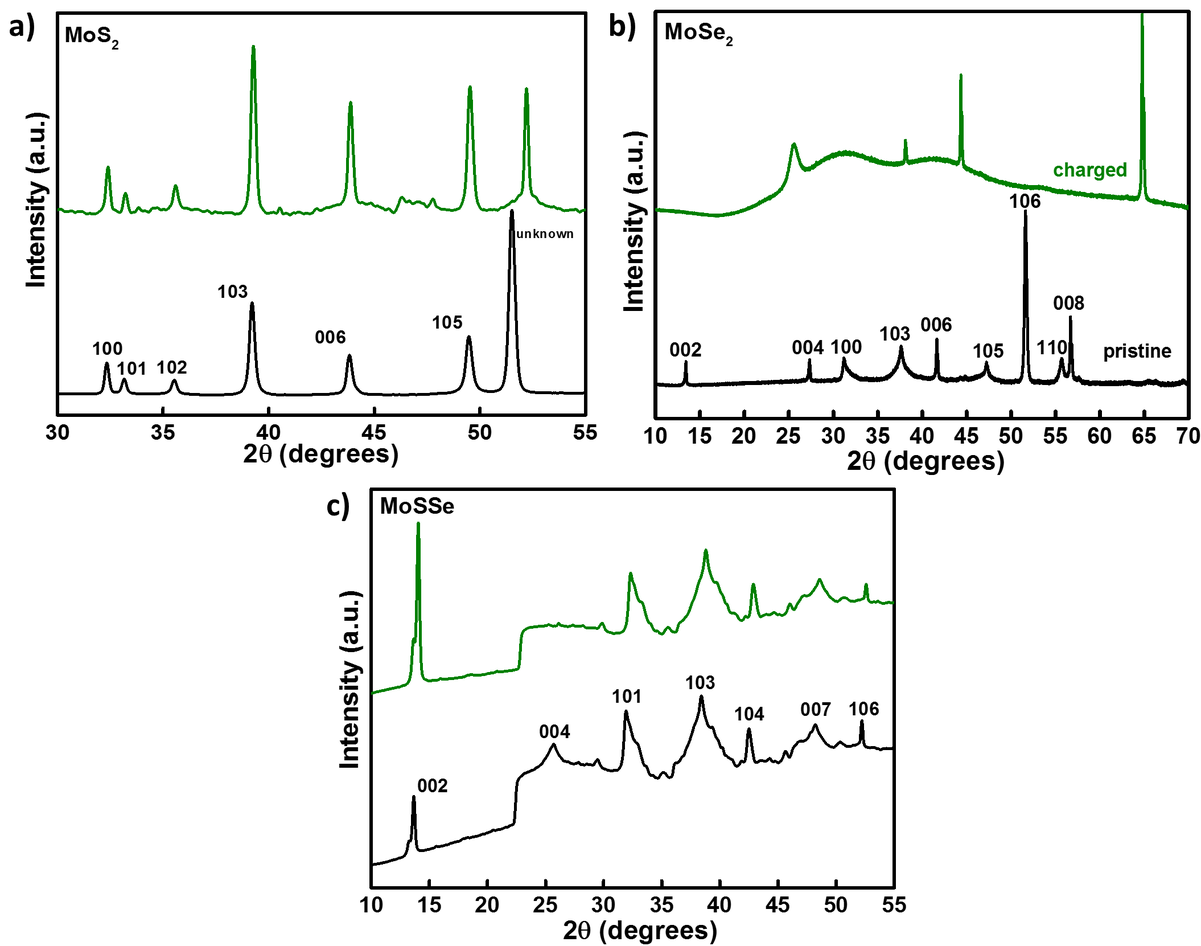
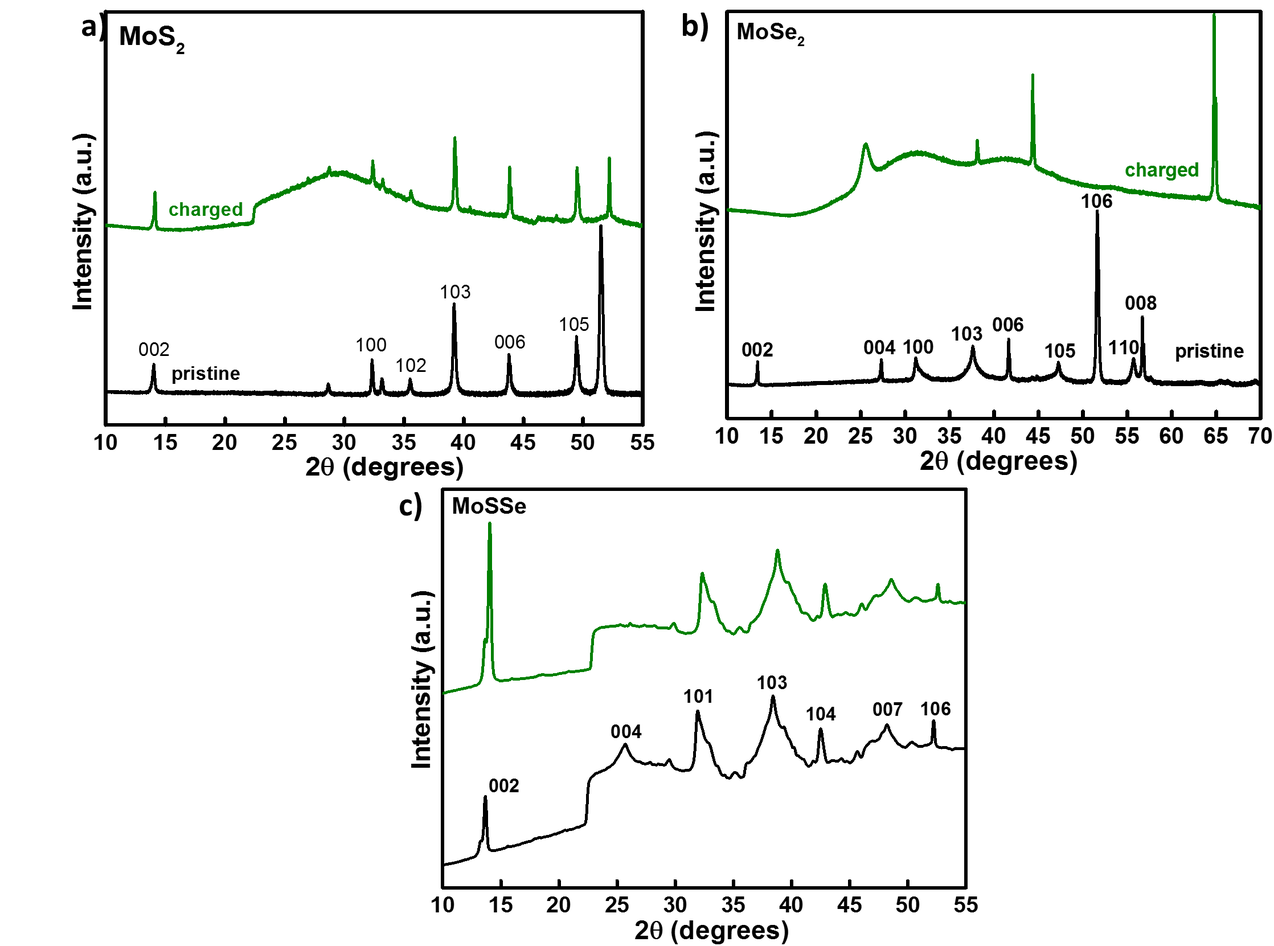
Updates from Overleaf

Changed region(s): [[0.0, 0.0, 0.9858, 1.0], [0.9858, 0.4299, 1.0, 0.4606]]

diff --git a/manuscript.tex b/manuscript.tex
@@ -32,6 +32,7 @@
 % Include full author names and degrees, when required by the journal.
 % Use the \authfn to add symbols for additional footnotes and present addresses, if any. Usually start with 1 for notes about author contributions; then continuing with 2 etc if any author has a different present address.
 \author[1]{Shalini Divya}
+\author[1]{James H. Johnston}
 \author[2\authfn{1}]{Thomas Nann}
 
 \contrib[\authfn{1}]{Corresponding author.}
@@ -56,7 +57,7 @@
 
 \begin{abstract}
 
-In this work, we developed rechargeable AIBs using molybdenum dichalcogenides- MoS$_2$, MoSe$_2$ and MoSSe with polyvinylidene fluoride (PVDF) binder as the cathode. The aluminium ion batteries exhibit clear discharge voltage plateaus in the ranges 1.6-1.4 V for MoS$_{2}$ and MoSe$_{2}$, and 0.6–0.5 V for MoSSe. While the MoSSe cathode exhibits a higher specific capacity over MoS$_2$ and MoSe$_2$ but the overall energy density is lower than MoSe$_2$ at a current density of 40 mA g$^-{^1}$, MoSe$_2$ proves to be a more stable cathode with a discharge specific capacity of 110 mAh g$^-{^1}$ with an average potential at $\approx 2.0 V$. Charge–discharge cycling at 100 mA g$^-{^1}$ demonstrates the stability of Al/MoSe$_2$ cell over 200 cycles with 90 \% coulombic efficiency. 
+Many successful battery electrodes are based on 2D-layered materials. We have studied aluminium-ion batteries using molybdenum dichalcogenides --- MoS$_2$, MoSe$_2$ and MoSSe as active cathode materials. The batteries exhibit clear discharge voltage plateaus in the ranges 1.6-1.4 V for MoS$_{2}$ and MoSe$_{2}$, and 0.6–0.5 V for MoSSe. While the MoSSe cathode exhibits a higher specific capacity over MoS$_2$ and MoSe$_2$ but the overall energy density is lower than MoSe$_2$ at a current density of 40 mA g$^-{^1}$, MoSe$_2$ proves to be a more stable cathode with a discharge specific capacity of 110 mAh g$^-{^1}$ with an average potential at $\approx 2.0 V$. Charge–discharge cycling at 100 mA g$^-{^1}$ demonstrates the stability of Al/MoSe$_2$ cell over 200 cycles with 90 \% coulombic efficiency. 
 
 % Please include a maximum of seven keywords
 %\keywords{aluminium-ion battery, molybdenum disulfide, molybdenum diselenide, ...}
@@ -64,17 +65,18 @@ In this work, we developed rechargeable AIBs using molybdenum dichalcogenides- M
 \end{abstract}
 
 \section{Introduction}
-The use of lithium-ion batteries (LIBs) has grown significantly in recent years. The high energy density is one of the chief advantages of lithium-ion battery technology. In addition, they do not require any maintenance to ensure their performance. However, lithium-ion cells and batteries are not as robust as some other rechargeable technologies. They require protection from being over charged and discharged too far. After a while, batteries may need replacing due to ageing and this can be an issue if they are embedded in the equipment. Many airlines limit the number of lithium ion batteries they take. Any lithium-ion battery carried separately must be protected against short circuits by protective covers while travelling in air. Lithium-ion’s limitations are obvious, which is why there is a growing interest in finding alternative technologies. Among various batteries, Al-ion batteries (AIBs) have high gravimetric capacity (2,980 Ah kg$^-^1$) of the Al anode when compared to Li$^+$/Li (3,862 Ah kg$^-^1$) and Na$^+$/Na (1,166 Ah kg$^-^1$) resulting from Al$^3^+$/Al redox couple. Aluminium-ion batteries (AIBs) are a promising alternative to meet the growing demands. They are low in cost, recyclable and an ionic liquid used as electrolyte renders non-flammability. Although aluminium (Al) has a higher standard oxidation potential than lithium (Li), Al$^3^+$ cations result in a higher theoretical energy density compared to monovalent lithium (Li$^+$). Vanadium oxides such as V$_2$O$_5$ and VO$_2$ exhibited promising results but the intercalating Al$^3{^+}$ ions fixed themselves between the V$_2$O${_5}$ layers that made their diffusion very slow resulting in fewer charge/discharge cycles. Chiku \textit{et al} \cite{chiku_amorphous_2015} introduced an amorphous V$_2$O${_5}$/carbon composite where presence of highly electro-conductive Ketjenblack weakened the interaction between intercalating Al$^3^+$ ions and amorphous V$_2$O$_5$ layers, significantly improving the battery performance. Using X-ray photoelectron spectroscopy (XPS) analysis, the team found that the valency of vanadium changed while charging/discharging the cell. Two-dimensional vanadium carbide (MXenes)\cite{vahidmohammadi_two-dimensional_2017} were used based on a similar principle where Al$^3^+$ ions intercalated into the MXene layers and vanadium, V$^4^+$ reduced to V$^3{^+}$ during discharge and reversibly oxidised to V$^4^+$ during charge. Metal oxides such as MoO$_3$\cite{lahan_al3+_2019}, chevrel phase Mo$_6$S$_8$ \cite{geng_reversible_2015}, Ni$_3$S$_2$ \cite{wang_novel_2016}, MoS$_2$\cite{li_rechargeable_2018}, TiS$_2$\cite{geng_titanium_2017} and carbon-based materials have been tested as cathodes for AIBs. Materials with high surface area such as three-dimensional hierarchical CuS microspheres\cite{wang_high-performance_2017}, zeolite-template carbon\cite{stadie_zeolite-templated_2017} as an ordered microporous cathode, have shown better battery performance by providing shorter diffusion lengths thus making it easier for ions to intercalate or get absorbed onto the surface of the active material. 
-Graphite has been a popular choice for cathodes in AIBs due to its layered structure. Various forms of graphite such as fluorinated graphite\cite{rani_fluorinated_2013}, Kish graphite flakes\cite{wang_kish_2017}, three-dimensional graphitic-foam\cite{lin_ultrafast_2015}, graphene mesh network\cite{chen_ultrafast_2017}, few-layer graphene aerogels\cite{qiao_defect-free_2019} and several other forms, have been tried as cathodes for AIBs, which showed discharge capacities ranging from 60-250 mAh g$^-{^1}$. The AlCl$_4^¯$ anions intercalate into the graphitic stacks and deintercalate during discharge. X-ray diffraction (XRD) and Raman spectroscopy studies have widely been used to establish the mechanism\cite{wang_advanced_2017}. Splitting of the graphite 002 peak 2 $\theta$ = 26.55, into two separate peaks indicated intercalation of AlCl$_4{^¯}$ anions resulting in highly strained graphene stacks.  During discharge, the pristine graphite peak reappears suggesting reversible intercalation /deintercalation of AlCl$_4^¯$ anions. Raman data revealed a doublet peak during charge, indicating vibration of carbon atoms in the interior graphite planes, which finally resulted in one single peak after the cell was fully charged indicating two stages of intercalation. While the cell discharged, pristine graphite spectra reappeared. XPS studies confirmed the reversible oxidation/reduction of carbon when AlCl$_4^¯$ anions intercalate/deintercalate respectively. While AlCl$_4^-$ ions act as the charge-carrying species for a few cathodes, MoS2 guy displayed intercalation of Al$^3{^+}$ ions when the cells discharged. Therefore, it can be said that a single mechanism for AIBs does not exist; it changes with every cathode material and its structure. 
+% You started to talk for 4 sentences about lithium. This is an aluminium paper!!!
+ The aluminium-ion battery (AIB) anode redox couple Al$^3^+$/Al has a high theoretical, gravimetric capacity (2,980 Ah kg$^-^1$) when compared with Li$^+$/Li (3,862 Ah kg$^-^1$) and Na$^+$/Na (1,166 Ah kg$^-^1$). Futhermore, AIBs are low in cost, recyclable and the common ionic liquid electrolyte not inflammable. Although aluminium (Al) has a higher standard oxidation potential than lithium (Li), Al$^3^+$ cations result in a higher theoretical energy density compared to monovalent lithium (Li$^+$). Vanadium oxides such as V$_2$O$_5$ and VO$_2$ exhibited promising results but the intercalating Al$^3{^+}$ ions fixed themselves between the V$_2$O${_5}$ layers that made their diffusion very slow resulting in fewer charge/discharge cycles. Chiku \textit{et al} \cite{chiku_amorphous_2015} introduced an amorphous V$_2$O${_5}$/carbon composite where presence of highly electro-conductive Ketjenblack weakened the interaction between intercalating Al$^3^+$ ions and amorphous V$_2$O$_5$ layers, significantly improving the battery performance. Using X-ray photoelectron spectroscopy (XPS) analysis, the team found that the valency of vanadium changed while charging/discharging the cell. Two-dimensional vanadium carbide (MXenes)\cite{vahidmohammadi_two-dimensional_2017} were used based on a similar principle where Al$^3^+$ ions intercalated into the MXene layers and vanadium, V$^4^+$ reduced to V$^3{^+}$ during discharge and reversibly oxidised to V$^4^+$ during charge. Metal oxides such as MoO$_3$\cite{lahan_al3+_2019}, chevrel phase Mo$_6$S$_8$ \cite{geng_reversible_2015}, Ni$_3$S$_2$ \cite{wang_novel_2016}, MoS$_2$\cite{li_rechargeable_2018}, TiS$_2$\cite{geng_titanium_2017} and carbon-based materials have been tested as cathodes for AIBs. Materials with high surface area such as three-dimensional hierarchical CuS microspheres\cite{wang_high-performance_2017}, zeolite-template carbon\cite{stadie_zeolite-templated_2017} as an ordered microporous cathode, have shown better battery performance by providing shorter diffusion lengths thus making it easier for ions to intercalate or get absorbed onto the surface of the active material. 
+Graphite has been a popular choice for cathodes in AIBs due to its layered structure. Various forms of graphite such as fluorinated graphite\cite{rani_fluorinated_2013}, Kish graphite flakes\cite{wang_kish_2017}, three-dimensional graphitic-foam\cite{lin_ultrafast_2015}, graphene mesh network\cite{chen_ultrafast_2017}, few-layer graphene aerogels\cite{qiao_defect-free_2019} and several other forms, have been tried as cathodes for AIBs, which showed discharge capacities ranging from 60-250 mAh g$^-{^1}$. The AlCl$_4^¯$ anions intercalate into the graphitic stacks and deintercalate during discharge. X-ray diffraction (XRD) and Raman spectroscopy studies have widely been used to establish the mechanism\cite{wang_advanced_2017}. Splitting of the graphite 002 peak 2 $\theta$ = 26.55, into two separate peaks indicated intercalation of AlCl$_4{^¯}$ anions resulting in highly strained graphene stacks.  During discharge, the pristine graphite peak reappears suggesting reversible intercalation /deintercalation of AlCl$_4^¯$ anions. Raman data revealed a doublet peak during charge, indicating vibration of carbon atoms in the interior graphite planes, which finally resulted in one single peak after the cell was fully charged indicating two stages of intercalation. While the cell discharged, pristine graphite spectra reappeared. XPS studies confirmed the reversible oxidation/reduction of carbon when AlCl$_4{^¯}$ anions intercalate/deintercalate respectively. While AlCl$_4{^-}$ ions act as the charge-carrying species for a few cathodes, MoS2 guy displayed intercalation of Al$^3{^+}$ ions when the cells discharged. Therefore, it can be said that a single mechanism for AIBs does not exist; it changes with every cathode material and its structure. 
 
 
 \section{Results and Discussion}
 
-Scheme 1 displays the crystal structure of MoX$_2$ where X = S, Se. The molecule has two vacant sites --- M1 and M2. M1 denotes the spaces in between the X-Mo-X bonds whereas M2, a larger site, is denoted by separation of two layers of MoX$_2$ with an inter-layer distance of 6.3\AA. The layers are held at this distance via van-der-Waals (vdW) forces. The M2 site presents an open network and various interstitial sites, which can easily accommodate the AlCl$_4^{-}$ anion, which are 5.28\AA\ in size as reported by Takahashi {\it et al}. An argument can be made about the kind of ion that participates in the intercalation process during charge. Wang {\it et al.} reported participation of Al$^{3+}$ cations, which not only had to overcome their strong electrostatic effect to get in between the layers, but their participation also reduced the reversibility of the redox process by forming complexes with the sulphide ions that remained in the vacant site during discharge. According to our preliminary tests, we found that the participation of Al$^{3+}$ would rather \lq contract\rq\ the MoX$_2$ layers. Density Functional Theory (DFT) studies carried out by Pathak {\it et al.}, showed that AlCl$_4^-$ anions intercalated within the graphite system with its energetically stable tetrahedral form, which is distorted due to the vdW inter-layer attraction forces between the host graphite layers. Here, we propose the intercalation of AlCl$_4^-$ anions into the M2 sites of MoX$_2$ during charging process. The electrochemical results, cyclic voltammetric scans, Raman spectroscopy and X-ray photoelectron spectroscopy results discussed later strongly support the reversible nature of the intercalation process.
+Scheme 1 displays the crystal structure of MoX$_2$ where X = S or Se. The molecule has two vacant sites for intercalation - M1 and M2. M1 denotes the spaces in between the X-Mo-X bonds whereas M2, a larger site, is denoted by separation of two layers of MoX$_2$ with an inter-layer distance of 6.3\AA. The layers are held at this distance via van-der-Waals (vdW) forces. The M2 site presents an open network and various interstitial sites, which can easily accommodate the AlCl$_4^{-}$ anion, which are 5.28\AA\ in size as reported by Takahashi {\it et al}. An argument can be made about the kind of ion that participates in the intercalation process. Wang {\it et al.}\cite{li_rechargeable_2018} reported intercalation of Al$^{3+}$ cation during discharge. The triply charged Al$^3{^+}$ cation has to overcome the strong electrostatic force from the S$^2{^-}$ anion network to get in between MoS$_2$ layers; also, its participation is limited due to its tendency to form complexes when it intercalates. However, our preliminary tests showed  that participation of Al$^{3+}$ would rather \lq contract\rq\ the MoX$_2$ layers making AlCl$_4{^-}$ a probable choice.  Density Functional Theory (DFT) studies carried out by Pathak {\it et al.}, showed that AlCl$_4^-$ anions intercalated within the graphite system after distortion from its tetrahedral form due to vdW interlayer attraction forces between the host graphite layers. Here, we propose the intercalation of AlCl$_4^-$ anions into the M2 sites of MoX$_2$ during charging process. The electrochemical results, cyclic voltammetric scans, Raman spectroscopy and X-ray photoelectron spectroscopy results discussed later strongly support the reversible nature of the intercalation process.
 
 \begin{figure}[t]
 \centering
-\includegraphics[width=\textwidth]{figures/scheme1}
+\includegraphics[width=\textwidth]{figures/S1}
 \caption{Schematic representation of a) an MoX$_2$ crystal structure with possible intercalation sites at M1 and M2 b) intercalation at M1 site and c) intercalation at M2 site.}
 \end{figure}
 
@@ -88,7 +90,7 @@ A modified two-electrode polyether ether ketone (PEEK) cell was used to make ele
 % Figure 1 here
 
 
-Figure 1 shows the charge/discharge curves (CDC) for MoS$_2$, MoSe$_2$and MoSSe. The average voltage was observed at 1.8 V for MoS$_2$, 1.7 V for MoSe$_2$ and 0.6 V for MoSSe. For MoS$_2$, capacity after the first discharge was 43 mAh g$^{-1}$, which reduced to 40 mAh g$^{-1}$ and 31 mAh g$^{-1}$ in its second and third cycle respectively. We compared the CDC of the first cycle with their first cyclic voltammetry (CV) scan (Fig 1e) and found a good resemblance between the discharging plateaus (1.9 V and 0.7 V) and reduction peak positions, and in between the charging plateau (2.1 V) and oxidation peak positions. The two-step redox processes have good reversibility, seen in Significant Figure (SF) 1. However, the cell recorded an abnormally high charging capacity in its first cycle. Since intercalation of AlCl$_4^-$ takes places during charging, the irreversible capacity can be attributed to the dissociation of Al$_2$Cl$_7^-$ ions at the electrode surface, or formation of an SEI layer may also render a few side reactions that take place on the electrode-electrolyte interface at such high potentials. CDC for MoSe$_2$ revealed interesting results. With discharge plateaus at 1.9 V and 1.7 V, the first CV scan observed a reduction peak at 1.0 V and 1.65 V. The reduction peak at 1.0 V disappeared after the first scan. This peak can be attributed to an irreversible phase transition that takes place in MoSe$_2$ in its first cycle\cite{fan_hybrid_2017}. During this transition, a semi-conducting 2H phase converts to a more metallic 1T phase.  This transition works in favour of the cathode as it increased the interlayer spacing of MoSe$_2$ (by reducing the vdW forces) and allowing more AlCl$_4^-$ ions to intercalate, thus leading to a higher capacity than MoS$_2$. From the CDC and CV scans, it is apparent that the redox processes are reversible in nature as the discharging plateaus continue to appear at 1.8 V and 2.1 V and charging plateau appears at 2.0 V (Fig S5) after 200 cycle at a current rate of 100 mAg$^{-1}$. A similar phenomenon of high charging capacity during the first cycle was observed and can be similarly attributed to above-mentioned reasons. MoSSe cathode, observed three distinct plateaus during charge at 1.7 V, 2.0 V and 2.3 V in its first cycle with a very low discharge plateau at 0.5 V. The first CV scan revealed a distinct reduction potential at 0.9 V, which disappeared after 1st cycle implying a similar irreversible phase transition. We noticed only one reduction peak at 1.7 V in the consecutive scans and its intensity increased with every cycle. This did not seem to be a part of any redox process as no plateau was observed at that potential in its CDC. An increase in charging capacity during the first three cycles might have been due to... The rate capability test for three electrodes was carried out at various current rates of 25, 40 and 100 mA/g. Lower capacities at higher current rates can be attributed to the decrease in the number of ions transferred in between the electrode and the electrolyte, which decreases the battery capacity. An increase in resistance at higher current rates can also be a reason why the capacity fades.
+Figure 2 shows the charge/discharge curves (CDC) for MoS$_2$, MoSe$_2$and MoSSe. The discharge voltage was observed at 1.8 V and 0.6 V  for MoS$_2$, 1.9 V, 1.7 V  and 1.5 V for MoSe$_2$ and 0.5 V for MoSSe. For MoS$_2$, capacity recorded after first discharge was 43 mAh g$^{-1}$, which reduced to 40 mAh g$^{-1}$ and 31 mAh g$^{-1}$ in its second and third cycle respectively. We compared the cell's first CDC with its first cyclic voltammetry (CV) scan (Fig 1e-1g) and found a good resemblance between the discharging plateaus and reduction peak positions, and in between the charging plateau and oxidation peak positions. The two-step redox processes have good reversibility. Electrochemical performance of Al/MoSe$_2$ cell revealed some interesting results. With discharge plateaus at 1.9 V and 1.7 V, the first CV scan observed a reduction peak at 1.65 V and an irreversible peak at 1.0 V. The peak at 1.0 V disappeared after the first scan. This peak can be attributed to an irreversible phase transition that usually takes place in molybdenum dichalcogenides, in our case, MoSe$_2$, in its first cycle\cite{fan_hybrid_2017}. During this transition, a semi-conducting 2H phase converts to a more metallic 1T phase.  This transition works in favour of the cathode as it somehow increased the interlayer spacing of MoSe$_2$ (by reducing the vdW forces) and allowing more AlCl$_4^-$ ions to intercalate, thus leading to a higher capacity than MoS$_2$. From the CDC and CV scans, it is apparent that the redox processes are reversible even after 200 cycles (Fig SF1) at a higher current rate of 100 mAg$^{-1}$. Al/MoSSe cell observed three distinct plateaus during charge at 1.7 V, 2.0 V and 2.3 V in its first cycle with a low discharge plateau at 0.5 V. The presence of various charging potentials correspond to the oxidation processes that occur due to presence of both S and Se atoms. The first CV scan revealed an irreversible  reduction potential at 0.9 V (resembling MoSe$_2$), which disappeared after 1st cycle implying a similar irreversible phase transition. Only one reduction peak at 1.7 V was noted in the consecutive scans with decreased intensity after every cycle. However, no plateau was observed in the CDC for MoSSe at that potential. Performance of the three electrodes was observed at different current rates (25, 40 and 100 mA g$^-^1$). MoSe$_2$, recorded the most stable capacities at all potentials compared to MoS$_2$ (recording the lowest capacity of 11 at 100 mA/g) and MoSSe (recording a significant drop ion capacity after a few cycles at all current rates). 
 \begin{figure}[h!]
 \centering
 \includegraphics[width=\textwidth]{figures/fig2}
@@ -96,8 +98,7 @@ Figure 1 shows the charge/discharge curves (CDC) for MoS$_2$, MoSe$_2$and MoSSe.
 \end{figure}
 % Figure 2 here
 
-Both MoS$_2$ and MoSe$_2$ have similar interlayer distance (6.5 \AA) but MoSe$_2$ recorded a higher capacity and a more stable cycle life than MoS$_2$. This behaviour can be attributed to the different charge storage mechanisms the two materials follow. CV curves for MoSe$_2$ (Fig 2b) and MoSSe (Fig 2c) have a higher area than MoS$_2$ (Fig 2a) and a more rectangular shape suggesting an additional electrocapacitive mechanism. Charge storage in MoS$_2$ is primarily based on reversible intercalation of AlCl$_4^-$ ions during charge at 1.9 V (Fig S1). MoSe$_2$ showed an intercalation process and an electric double-layer charge storage at the electrode-electrolyte interface, resulting in a higher capacity and a high area under the CV curve. In addition, the phase transition for MoSe$_2$ and MoSSe (2H$\rightarrow$1T) is prominent in their first cycle at 0.9 V. No such transitions were observed for MoS$_2$. CV scan of MoSSe, which lacked any reversible redox peaks, revealed the capacity is mainly focused on non-Faradaic behaviour.
-
+Both MoS$_2$ and MoSe$_2$ have similar interlayer distance (6.5 \AA) but MoSe$_2$ recorded a higher capacity and a more stable cycle life than MoS$_2$. To account for this behaviour, we observed the CV scans of all electrodes. Different charge storage mechanisms can lead to different CV curves. Firstly, we noted that MoSe$_2$ (Fig 3b) and MoSSe (Fig 3c) had a higher CV area than MoS$_2$ (Fig 3a). In addition, the phase transition for MoSe$_2$ and MoSSe (2H$\rightarrow$1T) is prominent in their first scan at 0.9 V - 1.0 V. No such transitions were observed for MoS$_2$. Charge storage in MoS$_2$ seems to be primarily based on redox processes (reversible intercalation of AlCl$_4^-$ ions) : reversible oxidation and reduction peaks observed at 1.8 and 2.1 V, and 2.0 V respectively. A rectangular CV suggests towards an electrocapacitive mechanism. MoSe$_2$ indicated towards both a reversibe redox process (intercalation/deintercalation) and an electric double-layer charge storage because of its rectangular looking CV curve from 0.1 v to 1.5 V. The surface-induced charge storage might have resulted in an additional capacity.  CV scan of MoSSe, which lacked evidence for any reversible redox process due to absence of clear oxidation/reduction peaks, derives its capacitance mainly from a surface phenomena. CV curve from Mo foil (Fig 3a inlet)proved that capacitance in all the cells came solely from the active material and not the current collector.
 \begin{figure}[h!]
 \centering
 \includegraphics[width=\textwidth]{figures/fig3}
@@ -105,7 +106,7 @@ Both MoS$_2$ and MoSe$_2$ have similar interlayer distance (6.5 \AA) but MoSe$_2
 \end{figure}
 %Figure 3 here....
 
-Figure 3 displays the X-ray diffraction measurements of MoSe$_2$ and MoSSe electrodes cycled at current rate of 40 mA g$^{-1}$. XRD spectra for MoS$_2$ (Fig S6) compares the pristine (verified by JCPDS No. 17-0744) and charged electrode. The 002 plane (along the c-axis of MoS$_2$) shifted from 14.21\degree\  to 14.02\degree. MoSe$_2$ displayed significantly broadened peaks after charge. The diffraction peak at 2$\theta$ values of 13.4\degree\ (002) disappeared after charging, whereas the peaks at  27.28\degree\ (004), 41.64\degree\ (006) and 51.59\degree\ (106) shifted to 25.58\degree\ , 38.08\degree\  and 44.38\degree\ respectively. The 004 and 006 planes are along the c-axis of the molecule and a decrease in their theta values indicates an increase in the interlayer spacings. This confirms the intercalation of planar AlCl$_4^-$ ions. A new diffraction peak was observed at 44.38\degree, which can be attributed to a new intercalation complex formed after intercalation of AlCl$_4^-$. MoSSe, however, does not have a well-defined crystal structure, which is evident from its diffraction pattern (Fig 3b). The defects might have formed during sulphur substitution in the Mo-Se bond making the Mo-Se bond weaker, which is why the cathode starts to degrade after a few cycles. Interestingly, the 004 plane at 26\degree\ disappears after discharge.
+Figure 4 displays the X-ray diffraction measurements of MoS$_2$, MoSe$_2$ and MoSSe electrodes. XRD spectra for MoS$_2$ (Fig 4a) compares the pristine (verified by JCPDS No. 17-0744) and charged electrode. It was seen that the 002 plane shifted from 14.21\degree\  to 14.02\degree suggesting a very small increase in the inter-layer distance of the layered molecule. The amorphous nature of the charged electrode was expected as the cell was cycled 20 times which might have changed the lattice structure a little. Most of the peaks retained their positions suggesting no significant loss in its crystal lattice. MoSe$_2$, on teh other hand, displayed significantly shifted peaks after charge. The diffraction peak at 2$\theta$ values of 13.4\degree\ (002) disappeared after charging, whereas the peaks at  27.28\degree\ (004), 41.64\degree\ (006) and 51.59\degree\ (106) shifted to 25.58\degree\ , 38.08\degree\  and 44.38\degree\ respectively. A decrease in theta values of 004 and 006 planes (along the c-axis of the molecule) indicate an increase in the inter-layer spacing of the molecule. These observations strongly suggest intercalation of distorted AlCl$_4^-$ ions during charge. Phase transformation that converts 2H to 1T contributes to the change in lattice structure of MoSe$_2$.The presence of amorphous peaks (at 33\degree\ and 42\degree\ ) suggest the same. MoSSe, however, does not have a well-defined crystal structure to begin with, as is evident from the XRD spectra of the pristine electrode (Fig 3c, in black). These defects might have formed during sulphur substitution in the Mo-Se bond making the Mo-Se bond weaker. Not only does this substitution impact the crystal structure of the molecule, but also results in degradation of the cathode when bigger AlCl$_4^-$ ions start to interact with them.The shift of 002 plane and disappearance of the 004 plane is a result of intercalation of AlCl$_4^-$ ions in the first few cycles and phase transformation.Overall, the molecule retains its lattice after 20 cycles, confirming the surface-based interaction of the anions which does not alter the crystal structure unlike MoSe$_2$. 
 
 \begin{figure}[h!]
 \centering
@@ -114,7 +115,7 @@ Figure 3 displays the X-ray diffraction measurements of MoSe$_2$ and MoSSe elect
 \end{figure}
 % Figure 4 here.
 
-To further establish the phase transition effect in MoSe$_2$- X-ray photoelectron spectroscopy (XPS) was used, which is a useful tool in distinguishing different polymorphs (2H and 1T) and oxidation states of transition metal dichalcogenides. Detailed narrow spectrum scan (Figure 4) displays the binding energy of Mo (3d5/2 and 3d3/2), S (2p3/2 and 2p1/2), Se (3d5/2 and 3d3/2) and Al 2p peaks for charged MoSe$_2$ and MoSSe electrodes. The binding energies for Mo 3d in pristine in MoSe$_2$ and MoSSe were observed at 229.4 eV and 232.6 eV (Fig S7a) corresponding to Mo$^{4+}$ 3d5/2 and Mo$^{4+}$ 3d3/2 from the 2H polymorph. Any shift in binding energy or peak splitting in an XPS spectrum can be used to detect phase change or a change in oxidation states of an element. Binding energies of sulphur at 163.5 eV and 162.6 eV corresponding to 2p1/2 and 2p3/2 respectively, did not record any peak shift (Fig S8a and b). For pristine MoSe$_2$ electrodes, the binding energy of Mo 3d observed two peaks at 229.1 eV and 232.2 eV corresponding to 3d5/2 and 3d3/2 and Se 3d included a doublet at 55.4 eV and 54.6 eV corresponding to Se 3d3/2 and 3d5/2 respectively (Fig S9a and b). The peak for Mo 3d3/2 split into two peaks at 233.1 eV and 232.6 eV and Mo 3d 5/2 split into 229.4 eV and 229.2 eV (Fig 4a) after the electrodes were charged. Peak for Se 3d3/2 at 55.4 eV split into 56.0 eV and 55.7 eV (Fig S9b). The peak splitting implies presence of higher oxidation states (Mo$^{4+}$ $\rightarrow$ Mo6+) states and transformation of MoSe$_2$ in 2H phase to a more conducting 1T phase. In the pristine electrode of MoSSe, spectra for Mo 3d (Fig S10) and Se 3d deconvoluted into multiple peaks (Mo$^{4+}$ 3d3/2 into 232.2 eV and 231.7 eV and Mo$^{4+}$ 3d5/2 into 229.1 eV and 228.6 eV) indicating presence of both polymorphs, 2H and 1T, with various oxidation states of Mo (+4 and +6) and Se (+2 and +4). For the MoSSe electrode, peak area increased for Mo 3d peak at 231.7 eV and 228.6 eV corresponding to 3d5/2 and 3d3/2 respectively (Fig . Increase in the 1T polymorph after the first cycle increases the peak areas. In addition, the doublet for Se 3d was replaced by one broad peak, which can be deconvoluted into four peaks at 55.9 eV, 55.2 eV, 54.6 eV and 54.0 eV further confirming the presence of a different polymorph. A new peak at ~236 eV in Mo 3d spectra for MoS$_2$, MoSe$_2$ and MoSSe electrodes (Fig S7b, Fig 4a and 4b) corresponds to Mo6+ species from MoO3 after exposure of the electrode in air. Fig S10 suggests presence of MoO3 in the pristine MoSSe electrode. XPS probing for Al 2p showed presence of Al in all charged electrodes of MoS$_2$ (Fig S12), MoSe$_2$ (Fig 4c) and MoSSe (Fig 4d). The MoSe$_2$ electrode (Fig 4c) displayed binding energies of Al 2p at 77 eV and 76eV corresponding to chlorides (Al$_x$Cl$_y$) and Al2O3 respectively. The oxide formation can be attributed to the passivation of the anode. As AlCl$_4^-$ ions intercalate into MoSe$_2$ layers, a new peak at 69 eV was detected indicating formation of a new complex. MoSSe electrode displayed broad peaks at 74.5 eV and 76 eV (Fig 4d) indicating large amount of Al2O3 and chloroaluminate ions respectively. High atomic ratio of AlxCly implies electrolyte residue. Thus, due to increase in 1T phase in both MoS$_2$ and MoSe$_2$, it becomes easier for the AlCl$_4^-$ ions to intercalate in between its layers. 
+To confirm the intercalation of AlCl$_4^-$ in MoSe$_2$, X-ray photoelectron spectroscopy (XPS) was used, which is a useful tool in distinguishing various oxidation states and helps in identifying different polymorphs (2H and 1T) especially in transition metal dichalcogenides . Detailed narrow spectrum scan (Figure 4) displays the binding energy of Mo (3d$_5_/_2$ and 3d$_3_/_2$) and Al 2p peaks for charged MoSe$_2$ and MoSSe electrodes. For pristine MoSe$_2$ electrodes, the binding energy of Mo 3d observed two peaks at 229.1 eV and 232.2 eV corresponding to 3d$_5_/_2$ and 3d$_3_/_2$ and Se 3d included a doublet at 55.4 eV and 54.6 eV corresponding to Se 3d$_3_/_2$ and 3d$_5_/_2$ respectively (Fig). Since peak splitting in an XPS spectrum indicates a phase change or a change in oxidation state, the spectra for the charged electrodes looked significantly different. The peak for Mo 3d split into three doublets indicating Mo$^4^+$ (from pristine MoSe$_2$), Mo$^5^+$ (formed after cell was charged) and Mo$^6^+$ (from formation of MoO$_3$). The pristine electrode of MoSSe (SF) already contained Mo in more than one oxidation states or suggested presence of both polymorphs (2H and 1T) . After charge, the peak areas increased for Mo 3d peak at 231.7 eV and 228.6 eV corresponding to 3d$_5_/_2$ and 3d$_3_/_2$ respectively (Fig 5b) . Increase in the area of 1T polymorph can be confirmed from the first CV scan. In addition, the doublet for Se 3d was replaced by one broad peak, which can be deconvoluted into four peaks further confirming the presence of more than one oxidation state and a new polymorph. A new peak at ~236 eV in Mo 3d spectra for MoS$_2$, MoSe$_2$ and MoSSe electrodes (Fig , Fig 5a and 5b) corresponds to Mo$^6^+$ species from MoO$_3$ after exposure of the electrode in air. XPS probing for Al 2p showed presence of Al in all charged electrodes of MoS$_2$ (Fig S), MoSe$_2$ (Fig 5c) and MoSSe (Fig 5d). MoSe$_2$ electrode displayed binding energies of Al 2p at 77 eV and 76eV corresponding to chlorides (Al$_x$Cl$_y$) and Al$_2$O$_3$ respectively. After AlCl$_4^-$ ions intercalated into MoSe$_2$ layers, a new peak at 69 eV was detected. we attribute this peak to a new complex that indicates a new environment for Al. Further analysis is required to confirm this species. Charged MoSSe electrode displayed broad peaks at 74.5 eV and 76 eV (Fig 5d) indicating presence of a higher amount of Al$_2$O$_3$ and chloroaluminate ions respectively. High atomic ratio of Al$_x$Cl$_y$ might come from electrolyte residue on the cathode's surface. The XPS data helps in confirming that intercalation of AlCl$_4_-$ ions definitely take place in case of MoSe$_2$, leading to a complex that reversibly forms during charge/discharge. 
 
 \begin{figure}[h!]
 \centering
@@ -123,10 +124,12 @@ To further establish the phase transition effect in MoSe$_2$- X-ray photoelectro
 \end{figure}
 % Figure 6 here
 
-We compared the Raman spectra of pristine and charged electrodes of MoSe$_2$ and MoSSe to detect shift in the vibrational modes of the molecule, which would imply presence of polymorphs. Two peaks corresponding to E12g and A1g vibrational modes for MoS$_2$ (Fig S14) are prominent at 384.6 cm$^{-1}$ and 410.2 cm$^{-1}$ respectively. A1g indicates an out-of-plane symmetric displacement of S atoms, whereas E12g suggests an in-layer displacement. A separation between the two modes indicates a multilayer structure, which is observed for all three materials. No significant peak shift was observed for the charged MoS$_2$ electrode implying no phase change. Raman spectra of MoSe$_2$ (Fig 6a) displayed broadening of A1g peak at 240.6 cm$^{-1}$, which shifted to 239.3 cm$^{-1}$ after intercalation of AlCl$_4^-$ ions. E12g peak at 284.5 cm$^{-1}$ shifted to 279.2 cm indicating an increase in lattice defect sites. These shifts and peak broadening correspond to phase transition of MoSe$_2$ from semiconducting 2H phase to more metallic and conducting 1T phase. This confirms with our previous results where we observed phase transition for MoSe$_2$ but not in MoS$_2$. Fig 6b showed the vibrational modes of MoSSe with A1g peak at 281.2 cm$^{-1}$ and E12g at 336.4 cm$^{-1}$. A1g peak in the pristine MoSSe electrode broadened after intercalation of AlCl$_4^-$ ions but the change was not as significant as MoSe$_2$. Raman results help us further establish the fact that MoSe$_2$ underwent significant structural changes allowing better intercalation of AlCl$_4^-$ ions than MoS$_2$. 
+
+In addition we compared the Raman spectra of pristine and charged electrodes of MoS$_2$, MoSe$_2$ and MoSSe to detect any shift in the vibrational modes of the molecule. Two peaks corresponding to E$^1_2_g$ and A$^1_g$ vibrational modes for MoS$_2$ (Fig 6a) are prominent at 384.6 cm$^{-1}$ and 410.2 cm$^{-1}$ respectively. A$^1_g$ indicates an out-of-plane symmetric displacement of S atoms, whereas E$^_2_g$ suggests an in-layer displacement. Also, a separation between the two modes indicates a multilayer structure, which is observed for all three materials. No significant peak shift or peak broadening was observed for the charged MoS$_2$ electrode when compared to its pristine electrode. Raman spectra of MoSe$_2$ (Fig 6b) displayed broadening of A$_1_g$ peak at 240.6 cm$^{-1}$, which shifted to 239.3 cm$^{-1}$ after intercalation of AlCl$_4^-$ ions and E$^1_2_g$ peak at 284.5 cm$^{-1}$ shifted to 279.2 cm. These shifts and peak broadening after charge indicate an increase in lattice defect sites and a possible phase transition. Absence of a phase conversion might be the reason why MoS$_2$ does not record any peak broadening unlike MoSe$_2$ and MoSSe. This confirms our previous results where we observed phase transition for MoSe$_2$ and MoSSe but not MoS$_2$. Fig 6c showed the vibrational modes of MoSSe with A1g peak at 281.2 cm$^{-1}$ and E12g at 336.4 cm$^{-1}$. A$_1_g$ peak in the pristine MoSSe electrode broadened after intercalation of AlCl$_4^-$ ions but the change was not as significant as MoSe$_2$. Raman results confirm our XRD results suggesting MoSe$_2$ underwent a significant structural change after intercalation of AlCl$_4^-$ ions. 
+
 
 \section{Conclusions}
-In summary, MoSe$_2$ exhibited a higher capacity and cyclic stability than MoS$_2$ and MoSSe, as the cathode material for AIBs. The CV and XPS results indicated an irreversible phase transition from 2H to a more metallic 1T phase. We found from our XRD, XPS and Raman results that AlCl$_4^-$ seemed to intercalate reversibly into MoSe$_2$, whereas there was little evidence for intercalation into other molybdenum chalcogenides. This proposed intercalation also resulted in an increased performance of MoSe$_2$-based electrodes compared with the others. The battery had a high average voltage of ∼2.0 V, and it delivers a specific capacity of about 80 mAh g$^−{^1}$ with nearly 95$\%$ coulombic efficiency at a current density of 40 mA g$^{−^1}$. This makes MoSe$_2$ a a promising cathode material for rechargeable AIB applications.
+In summary, MoSe$_2$ exhibited a higher capacity and cyclic stability than MoS$_2$ and MoSSe, as the cathode material for AIBs. The CV and XPS results indicated an irreversible phase transition from 2H to a more metallic 1T phase. We found from our XRD, XPS and Raman results that AlCl$_4^-$ seemed to intercalate reversibly into MoSe$_2$ (with a possible formation of a complex), whereas there was little evidence for intercalation into other molybdenum dichalcogenides.  A DFT analysis is crucial to determine the nature of this complex. This proposed intercalation along with a little electro-capacitive behaviour, resulted in an increased performance of MoSe$_2$ electrodes. The battery had a high average voltage of ∼2.0 V, and it delivers a specific capacity of about 80 mAh g$^−{^1}$ with nearly 95$\%$ coulombic efficiency at a current density of 40 mA g$^{−^1}$ making MoSe$_2$ a a promising cathode material for rechargeable AIB applications.
 
 
 \section{Experimental Section}
@@ -138,10 +141,48 @@ Anhydrous AlCl$_3$ (Sigma-Aldrich) and EMImCl (97$\%$, Sigma-Aldrich) were mixed
 PEEK (polyether ether ketone) cells were used for electrochemical measurements. Molybdenum rods were used as current collectors. MoX$_2$ coated on molybdenum foil was used as the cathode and placed at bottom of the cell. Two glass microfibers (Grade GF/F, Whatman) were used as separators. 80µl of the electrolyte was used to wet the separator. Aluminium foil (thickness 0.1 mm, 99$\%$, GoodFellow) used as an anode and placed on top of the separator. The cell was then sealed and wrapped with a paraffin film to avoid any air or moisture contact. It was assembled in a N$_2$-filled glove box. Since this was a two-electrode setup, aluminium foil was used as both counter and reference electrode. The cell was taken out of the glove box and electrochemical measurements were performed. 
 \section*{Supporting Information}
 Supporting  Information  is  available  from  the  Wiley  Online  Library  or  from the author.
+\\The cells recorded a higher charging capacity in their first cycles when compared to their discharging capacities. Since intercalation of AlCl$_4^-$ takes places during charging, the irreversible capacity can be attributed to the dissociation of Al$_2$Cl$_7^-$ ions at the electrode surface, or formation of an SEI layer may also render a few side reactions that take place on the electrode-electrolyte interface at such high potentials. 
+\begin{figure}[h!]
+\centering
+\includegraphics[width=\textwidth]{SF/SF1}
+\caption{Rate- stability test of MoSe$_2$ at 100 mA g$^-^1$. \\Since MoSe$_2$ performed better than MoS$_2$ and MoSSe, we performed long-term cycle tests to test the cycle life. Cell capacity was retained after 200 cycles at a higher current rate of 100 mA g$^-^1$.}
+\end{figure}
+
+
+\begin{figure}[h!]
+\centering
+\includegraphics[width=\textwidth]{SF/SF2}
+\caption{XPS spectra of Molybdenum 3d for a) pristine and b) charged MoS$_2$ electrodes.\\It was noted that after charge, the quantity of high oxidation state Mo (in red) increased. The chemical environment of Mo atoms change after interaction with chloroaluminates which might be due to formation of an intermediate complex (Al$_x$Cl$_y$.MoS$_2$). The blue peak at 226 eV indicates the 2s peak for Sulfur.}
+\end{figure}
+
+\begin{figure}[h!]
+\centering
+\includegraphics[width=\textwidth]{SF/SF3}
+\caption{XPS spectra of Molybdenum 3d for pristine a) MoSe$_2$ and b) MoSSe electrodes.\\For MoSe$_2$, molybdenum observed its pristine peaks at binding energies at 232.2 eV and 229.1 eV depicting Mo$^4^+$ from MoSe$_2$. The Mo peaks in pristine MoSSe electrode observed a complicated spectra. Three doublet peaks appeared corresponding to various oxidation states (Mo$^4^+$ and Mo$^6^+$) with polymorphs 2H and 1T already present. }
+\end{figure}
+
+\begin{figure}[h]
+\centering
+\includegraphics[width=\textwidth]{SF/SF4}
+\caption{XPS spectra of Selenium 3d from a) pristine and b) charged electrodes of Al/MoSe$_2$ cell. \\Pristine electrode from MoSe$_2$ observed the characteristic peaks at 55.6 eV and 54.6 eV corresponding to 3d$_3_/_2$ and 3d$_5_/_2$ respectively. After charge, a new peak appeared at 60 eV. We assume this peak arises from a complex (Al$_X$Cl$_y$.MoSe$_2$), which forms when AlCl$_4^-$ intercalate into MoSe$_2$ layers - .}
+\end{figure}
+
+\begin{figure}[h]
+\centering
+\includegraphics[width=\textwidth]{SF/SF5}
+\caption{XPS spectra of Sulfur 2p from a) pristine and b) charged electrodes of Al/MoS$_2$ cell. }
+\end{figure}
+\begin{figure}[h]
+\centering
+\includegraphics[width=\textwidth]{SF/SF6}
+\caption{XPS spectra of Selenium 3d from a) pristine and b) charged electrodes of Al/MoSSe cell.\\Selenium observed a new doublet after charge.}
+\end{figure}
+\pagebreak
+
+
 
 \section*{acknowledgements}
-\cite{wang_binder-free_2015}
-Acknowledgements should include contributions from anyone who does not meet the criteria for authorship (for example, to recognize contributions from people who provided technical help, collation of data, writing assistance, acquisition of funding, or a department chairperson who provided general support), as well as any funding or other support information. Before I forget it... here is a reference just for Shalini \cite{lahan_al3+_2019, nacimiento_exploring_2018, li_rechargeable_2018, wei_molybdenum_2017, geng_reversible_2015}.
+Acknowledgements should include contributions from anyone who does not meet the criteria for authorship (for example, to recognize contributions from people who provided technical help, collation of data, writing assistance, acquisition of funding, or a department chairperson who provided general support), as well as any funding or other support information. 
 
 \section*{Conflict of Interest}
 The authors declare no conflict of interest.
@@ -149,12 +190,13 @@ The authors declare no conflict of interest.
 \section*{Keywords}
 Aluminium-ion battery, molybdenum dichalcogenides, ionic liquid, cathodes
 
+
 %Bibliography
 \bibliography{zoteroBBT_refs}
 
 \pagebreak
 
-\graphicalabstract{figures/graphical-abstract}{Please check the journal's author guidelines for whether a graphical abstract, key points, new findings, or other items are required for display in the Table of Contents.}
+\graphicalabstract{figures/ga}{Please check the journal's author guidelines for whether a graphical abstract, key points, new findings, or other items are required for display in the Table of Contents.}
 
 
 \end{document}
